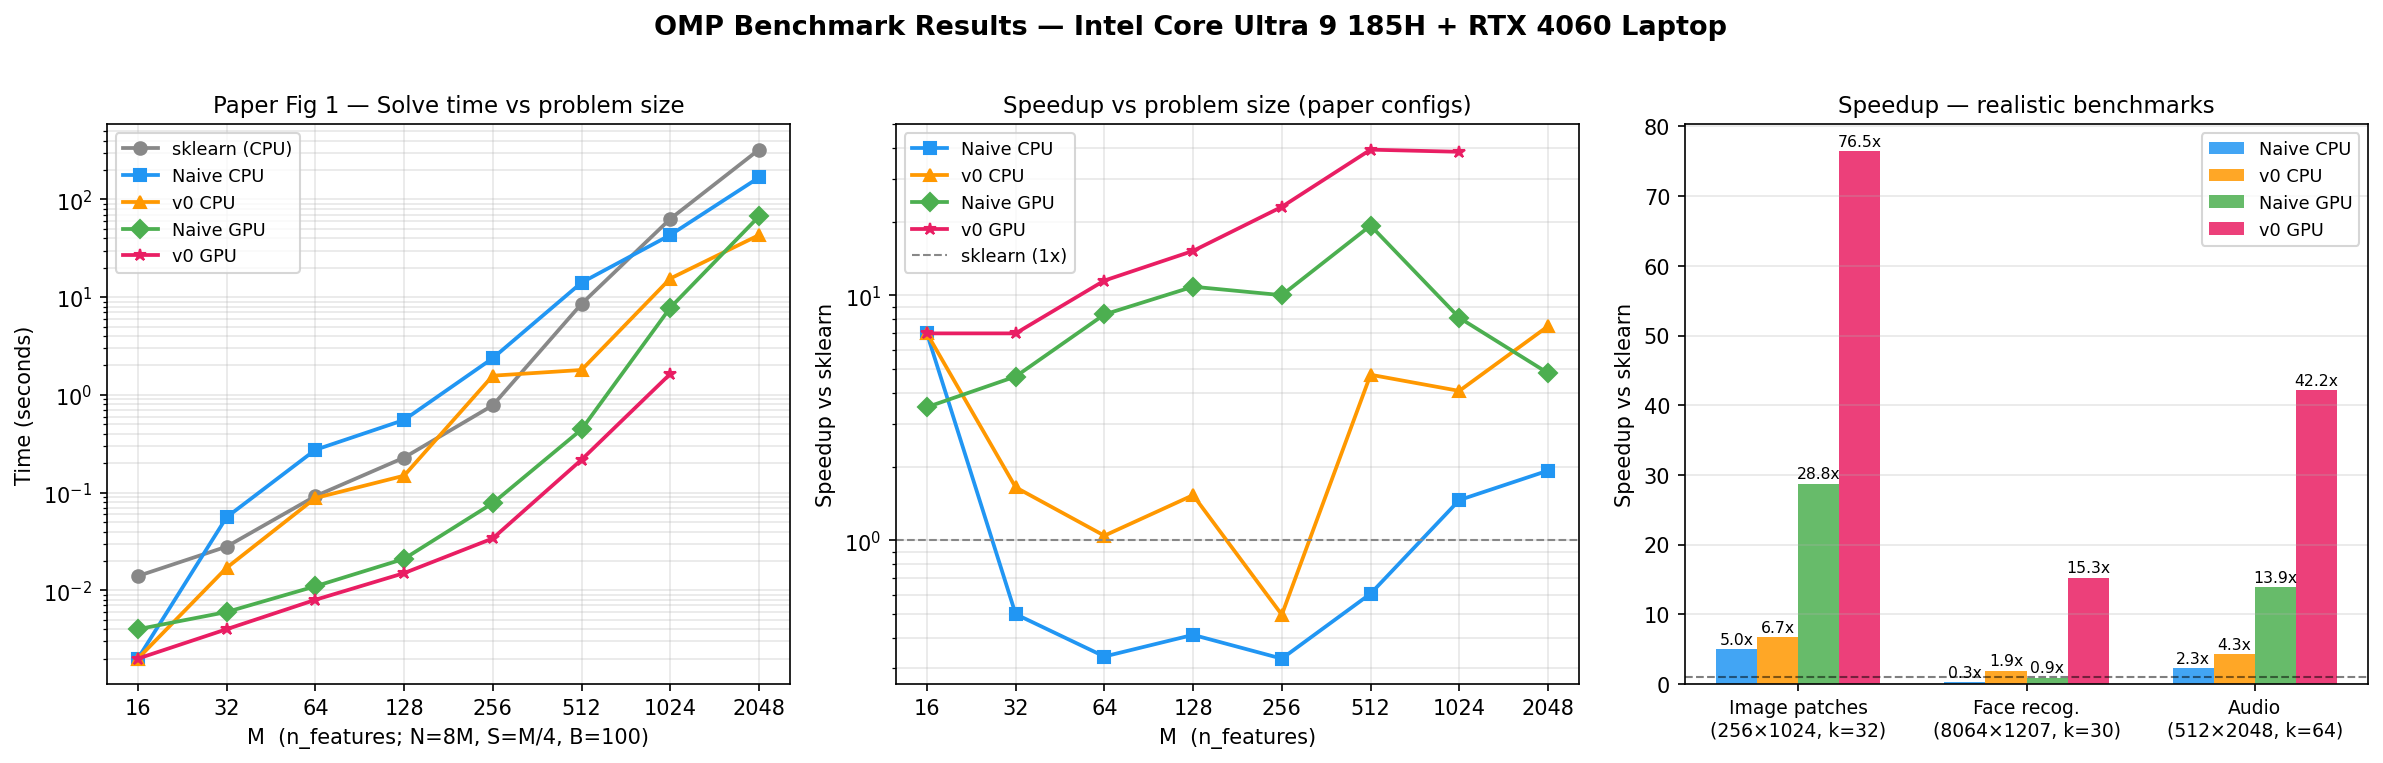
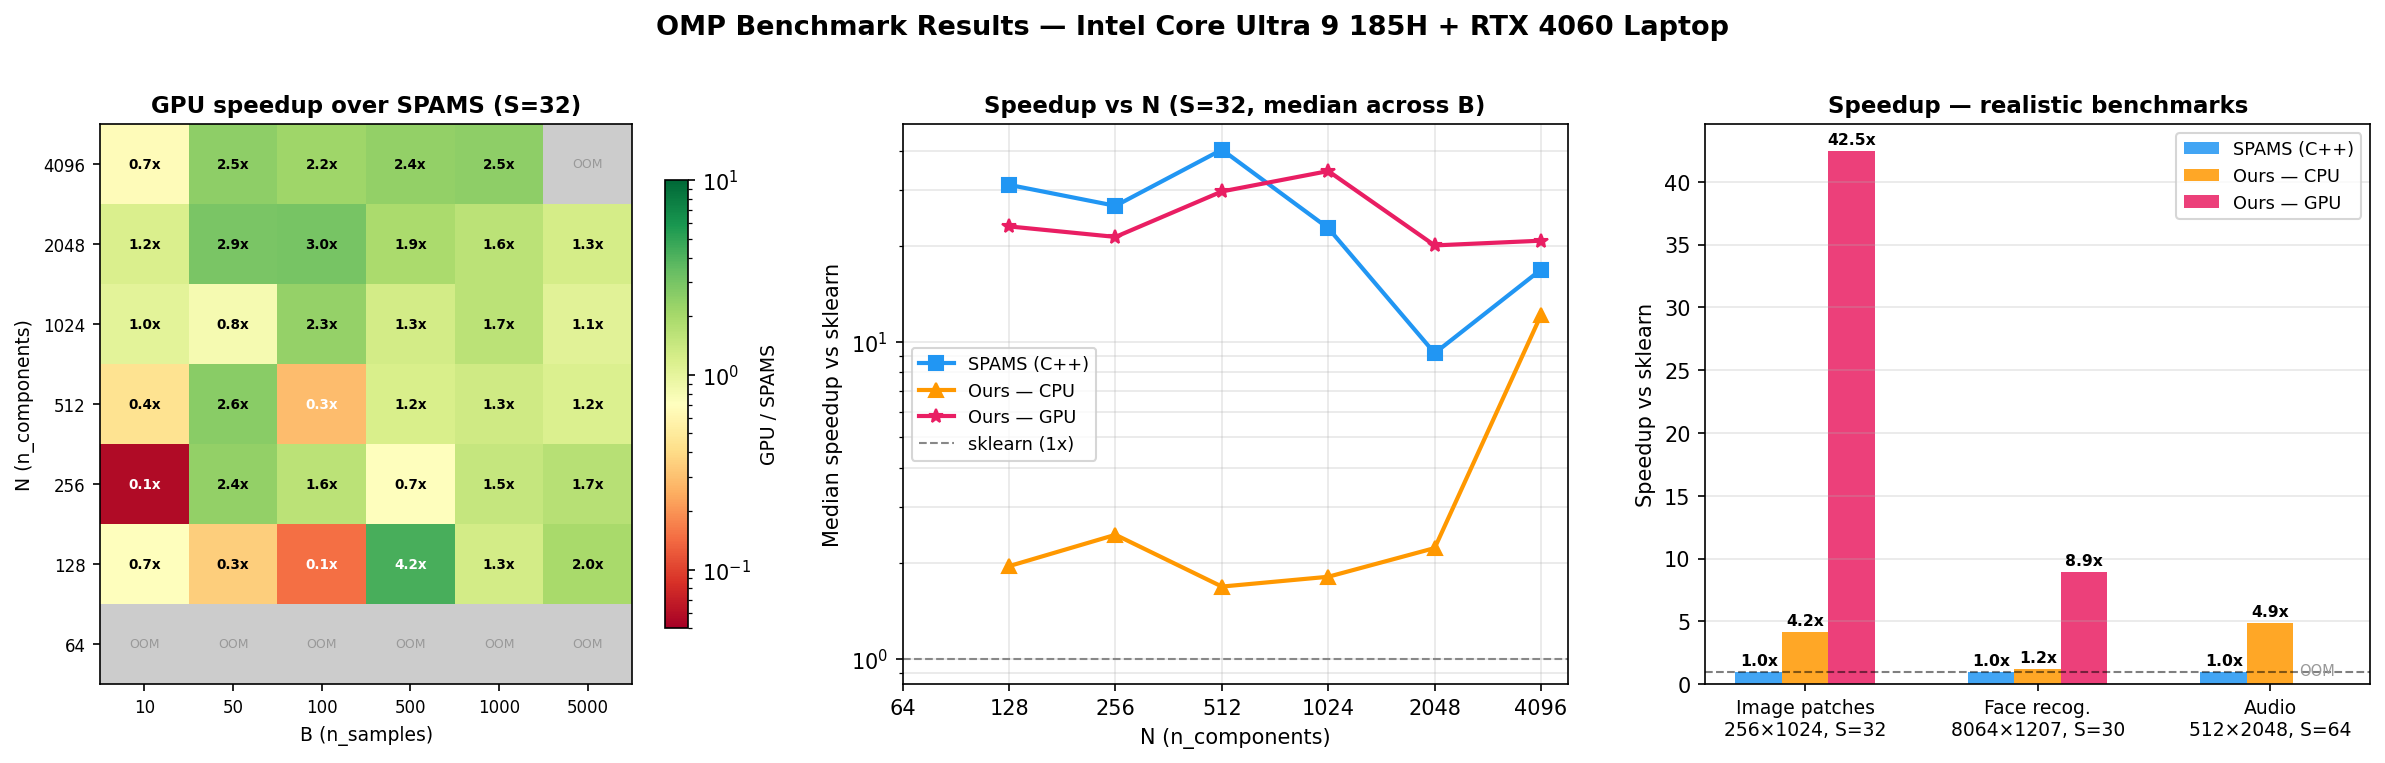
Update benchmark_plot

diff --git a/benchmarks/plot_results.py b/benchmarks/plot_results.py
@@ -3,127 +3,170 @@ matplotlib.use('Agg')
 import matplotlib.pyplot as plt
 import matplotlib.ticker as ticker
 import numpy as np
+import json
 import os
+import glob
 
-# ── Data from results/benchmark_20260308_000513.txt ──────────────────────────
+# ── Load sweep data for panels 1-2 ──────────────────────────────────────────
 
-# Paper Fig 1: N=8M, S=M/4, B=100
-M_values = [16, 32, 64, 128, 256, 512, 1024, 2048]
+results_dir = os.path.join(os.path.dirname(__file__), 'results')
+sweep_files = sorted(glob.glob(os.path.join(results_dir, 'sweep_*.json')))
+if not sweep_files:
+    print("No sweep JSON found. Run: python benchmarks/benchmarks.py sweep")
+    exit(1)
+with open(sweep_files[-1]) as f:
+    sweep = json.load(f)
 
-paper_times = {
-    'sklearn':   [0.014, 0.028, 0.092, 0.228, 0.782, 8.542,  63.266, 323.514],
-    'naive_cpu': [0.002, 0.056, 0.274, 0.554, 2.376, 14.095, 43.306, 167.872],
-    'v0_cpu':    [0.002, 0.017, 0.088, 0.149, 1.573,  1.800, 15.520,  43.205],
-    'naive_gpu': [0.004, 0.006, 0.011, 0.021, 0.078,  0.443,  7.805,  67.132],
-    'v0_gpu':    [0.002, 0.004, 0.008, 0.015, 0.034,  0.217,  1.640,    None],  # OOM at M=2048
-}
+# ── Data for panel 3: realistic benchmarks (from benchmark_20260326_115650.txt, E-features enabled) ──
 
-# Realistic benchmarks: (label, n_features, n_components, sklearn_sps, naive_cpu_sps, v0_cpu_sps, naive_gpu_sps, v0_gpu_sps)
+# (label, sklearn_sps, spams_sps, v0_cpu_sps, v0_blas_sps, v0_gpu_sps)
 realistic = [
-    ('Image patches\n(256×1024, k=32)', 256,  1024, 277,  1393, 1867,  7966, 21191),
-    ('Face recog.\n(8064×1207, k=30)',  8064, 1207, 271,    77,  517,   255,  4134),
-    ('Audio\n(512×2048, k=64)',          512,  2048,  99,   230,  429,  1374,  4173),
+    ('Image patches\n256×1024, S=32',  533, 23106, 2227, 1823, 22633),
+    ('Face recog.\n8064×1207, S=30',   482,  1274,  594, 1470,  4285),
+    ('Audio\n512×2048, S=64',          103,  4490,  504,  378,  None),  # GPU OOM
 ]
 
 COLORS = {
-    'sklearn':   '#888888',
-    'naive_cpu': '#2196F3',
-    'v0_cpu':    '#FF9800',
-    'naive_gpu': '#4CAF50',
-    'v0_gpu':    '#E91E63',
+    'sklearn': '#888888',
+    'spams':   '#2196F3',
+    'v0_cpu':  '#FF9800',
+    'v0_blas': '#795548',
+    'v0_gpu':  '#E91E63',
 }
 LABELS = {
-    'sklearn':   'sklearn (CPU)',
-    'naive_cpu': 'Naive CPU',
-    'v0_cpu':    'v0 CPU',
-    'naive_gpu': 'Naive GPU',
-    'v0_gpu':    'v0 GPU',
-}
-MARKERS = {
-    'sklearn':   'o',
-    'naive_cpu': 's',
-    'v0_cpu':    '^',
-    'naive_gpu': 'D',
-    'v0_gpu':    '*',
+    'sklearn': 'sklearn',
+    'spams':   'SPAMS (C++)',
+    'v0_cpu':  'Ours — CPU',
+    'v0_blas': 'Ours — CPU BLAS',
+    'v0_gpu':  'Ours — GPU',
 }
 
 fig, axes = plt.subplots(1, 3, figsize=(16, 5))
 fig.suptitle('OMP Benchmark Results — Intel Core Ultra 9 185H + RTX 4060 Laptop',
              fontsize=13, fontweight='bold', y=1.01)
 
-# ── Panel 1: Absolute time vs M (paper Fig 1 reproduction) ───────────────────
+# ── Panel 1: GPU vs SPAMS speedup heatmap (S=32, from sweep) ────────────────
 ax = axes[0]
-for key in ['sklearn', 'naive_cpu', 'v0_cpu', 'naive_gpu', 'v0_gpu']:
-    times = paper_times[key]
-    xs = [M_values[i] for i, t in enumerate(times) if t is not None]
-    ys = [t for t in times if t is not None]
-    ax.plot(xs, ys, color=COLORS[key], marker=MARKERS[key],
-            label=LABELS[key], linewidth=1.8, markersize=6)
+N_values = sweep['meta']['N_values']
+B_values = sweep['meta']['B_values']
+S = 32
 
-ax.set_xscale('log', base=2)
-ax.set_yscale('log')
-ax.set_xlabel('M  (n_features; N=8M, S=M/4, B=100)', fontsize=10)
-ax.set_ylabel('Time (seconds)', fontsize=10)
-ax.set_title('Paper Fig 1 — Solve time vs problem size', fontsize=11)
-ax.xaxis.set_major_formatter(ticker.FuncFormatter(lambda x, _: str(int(x))))
-ax.set_xticks(M_values)
-ax.legend(fontsize=8.5)
-ax.grid(True, which='both', alpha=0.3)
+mat = np.full((len(N_values), len(B_values)), np.nan)
+for i, N in enumerate(N_values):
+    for j, B in enumerate(B_values):
+        cell = sweep['cells'].get(f"{S}_{N}_{B}")
+        if cell is None or cell == 'skip':
+            continue
+        spams = cell.get('spams')
+        gpu = cell.get('v0_gpu')
+        if isinstance(spams, dict) and isinstance(gpu, dict):
+            mat[i, j] = gpu['sps'] / spams['sps']
 
-# ── Panel 2: Speedup vs M (paper configs) ────────────────────────────────────
+cmap = matplotlib.cm.RdYlGn.copy()
+cmap.set_bad(color='#cccccc')
+from matplotlib.colors import LogNorm
+im = ax.imshow(mat, cmap=cmap, norm=LogNorm(vmin=0.05, vmax=10),
+               aspect='auto', origin='lower')
+
+ax.set_xticks(range(len(B_values)))
+ax.set_xticklabels(B_values, fontsize=8)
+ax.set_yticks(range(len(N_values)))
+ax.set_yticklabels(N_values, fontsize=8)
+ax.set_xlabel('B (n_samples)', fontsize=9)
+ax.set_ylabel('N (n_components)', fontsize=9)
+ax.set_title('GPU speedup over SPAMS (S=32)', fontsize=11, fontweight='bold')
+
+for i in range(len(N_values)):
+    for j in range(len(B_values)):
+        val = mat[i, j]
+        if not np.isnan(val):
+            color = 'white' if val > 3 or val < 0.3 else 'black'
+            ax.text(j, i, f'{val:.1f}x', ha='center', va='center', fontsize=6.5,
+                    fontweight='bold', color=color)
+        else:
+            ax.text(j, i, 'OOM', ha='center', va='center', fontsize=6, color='#999999')
+
+cbar = fig.colorbar(im, ax=ax, shrink=0.8)
+cbar.set_label('GPU / SPAMS', fontsize=9)
+
+# ── Panel 2: Speedup vs sklearn across sweep (S=32, selected algs) ──────────
 ax = axes[1]
-sklearn_times = paper_times['sklearn']
-for key in ['naive_cpu', 'v0_cpu', 'naive_gpu', 'v0_gpu']:
-    times = paper_times[key]
-    xs, speedups = [], []
-    for i, t in enumerate(times):
-        if t is not None:
-            xs.append(M_values[i])
-            speedups.append(sklearn_times[i] / t)
-    ax.plot(xs, speedups, color=COLORS[key], marker=MARKERS[key],
-            label=LABELS[key], linewidth=1.8, markersize=6)
+
+# For each algorithm, compute median speedup vs sklearn at each N
+algs_to_plot = ['spams', 'v0_cpu', 'v0_gpu']
+markers = {'spams': 's', 'v0_cpu': '^', 'v0_gpu': '*'}
+
+for alg in algs_to_plot:
+    ns, medians = [], []
+    for N in N_values:
+        speedups = []
+        for B in B_values:
+            cell = sweep['cells'].get(f"{S}_{N}_{B}")
+            if cell is None or cell == 'skip':
+                continue
+            sk = cell.get('sklearn')
+            al = cell.get(alg)
+            if isinstance(sk, dict) and isinstance(al, dict):
+                speedups.append(al['sps'] / sk['sps'])
+        if speedups:
+            ns.append(N)
+            medians.append(np.median(speedups))
+
+    ax.plot(ns, medians, color=COLORS[alg], marker=markers[alg],
+            label=LABELS[alg], linewidth=2, markersize=7)
 
 ax.axhline(1.0, color=COLORS['sklearn'], linestyle='--', linewidth=1, label='sklearn (1x)')
 ax.set_xscale('log', base=2)
 ax.set_yscale('log')
-ax.set_xlabel('M  (n_features)', fontsize=10)
-ax.set_ylabel('Speedup vs sklearn', fontsize=10)
-ax.set_title('Speedup vs problem size (paper configs)', fontsize=11)
+ax.set_xlabel('N (n_components)', fontsize=10)
+ax.set_ylabel('Median speedup vs sklearn', fontsize=10)
+ax.set_title(f'Speedup vs N (S={S}, median across B)', fontsize=11, fontweight='bold')
 ax.xaxis.set_major_formatter(ticker.FuncFormatter(lambda x, _: str(int(x))))
-ax.set_xticks(M_values)
+ax.set_xticks(N_values)
 ax.legend(fontsize=8.5)
 ax.grid(True, which='both', alpha=0.3)
 
-# ── Panel 3: Speedup bar chart — realistic benchmarks ────────────────────────
+# ── Panel 3: Speedup bar chart — realistic benchmarks ───────────────────────
 ax = axes[2]
 bench_labels = [r[0] for r in realistic]
 n = len(realistic)
 x = np.arange(n)
-bar_w = 0.18
+bar_w = 0.2
 
-for j, (key, col) in enumerate([
-        ('naive_cpu', COLORS['naive_cpu']),
-        ('v0_cpu',    COLORS['v0_cpu']),
-        ('naive_gpu', COLORS['naive_gpu']),
-        ('v0_gpu',    COLORS['v0_gpu']),
-]):
-    idx = ['naive_cpu', 'v0_cpu', 'naive_gpu', 'v0_gpu'].index(key)
-    speedups = [r[4 + idx] / r[3] for r in realistic]  # sps / sklearn_sps
-    bars = ax.bar(x + (j - 1.5) * bar_w, speedups,
+bar_algs = [
+    ('spams',   COLORS['spams'],  1),  # index into realistic tuple
+    ('v0_cpu',  COLORS['v0_cpu'], 3),
+    ('v0_gpu',  COLORS['v0_gpu'], 5),
+]
+
+for j, (key, col, idx) in enumerate(bar_algs):
+    speedups = []
+    for r in realistic:
+        sps = r[idx]
+        if sps is not None:
+            speedups.append(sps / r[1])  # divide by sklearn_sps
+        else:
+            speedups.append(0)
+
+    bars = ax.bar(x + (j - 1) * bar_w, speedups,
                   bar_w, label=LABELS[key], color=col, alpha=0.85)
     for bar, sp in zip(bars, speedups):
-        ax.text(bar.get_x() + bar.get_width() / 2, bar.get_height() + 0.3,
-                f'{sp:.1f}x', ha='center', va='bottom', fontsize=7.5)
+        if sp > 0:
+            ax.text(bar.get_x() + bar.get_width() / 2, bar.get_height() + 0.3,
+                    f'{sp:.1f}x', ha='center', va='bottom', fontsize=7.5, fontweight='bold')
+        else:
+            ax.text(bar.get_x() + bar.get_width() / 2, 0.5,
+                    'OOM', ha='center', va='bottom', fontsize=7, color='#999999')
 
 ax.axhline(1.0, color='black', linestyle='--', linewidth=1, alpha=0.5)
 ax.set_xticks(x)
 ax.set_xticklabels(bench_labels, fontsize=9)
 ax.set_ylabel('Speedup vs sklearn', fontsize=10)
-ax.set_title('Speedup — realistic benchmarks', fontsize=11)
+ax.set_title('Speedup — realistic benchmarks', fontsize=11, fontweight='bold')
 ax.legend(fontsize=8.5)
 ax.grid(True, axis='y', alpha=0.3)
 
 plt.tight_layout()
-out_path = os.path.join(os.path.dirname(__file__), 'results', 'benchmark_plot.png')
+out_path = os.path.join(results_dir, 'benchmark_plot.png')
 plt.savefig(out_path, dpi=150, bbox_inches='tight')
 print(f"Saved to {out_path}")
